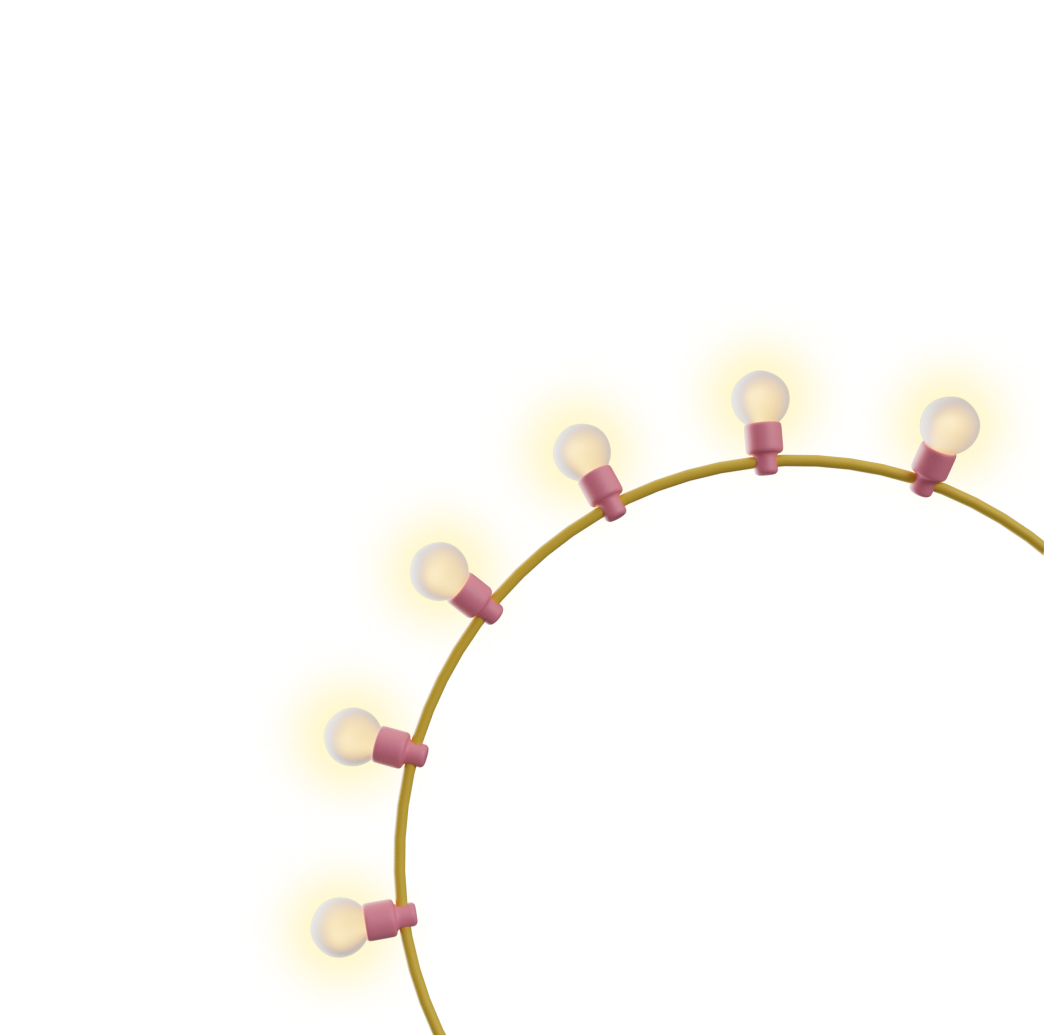
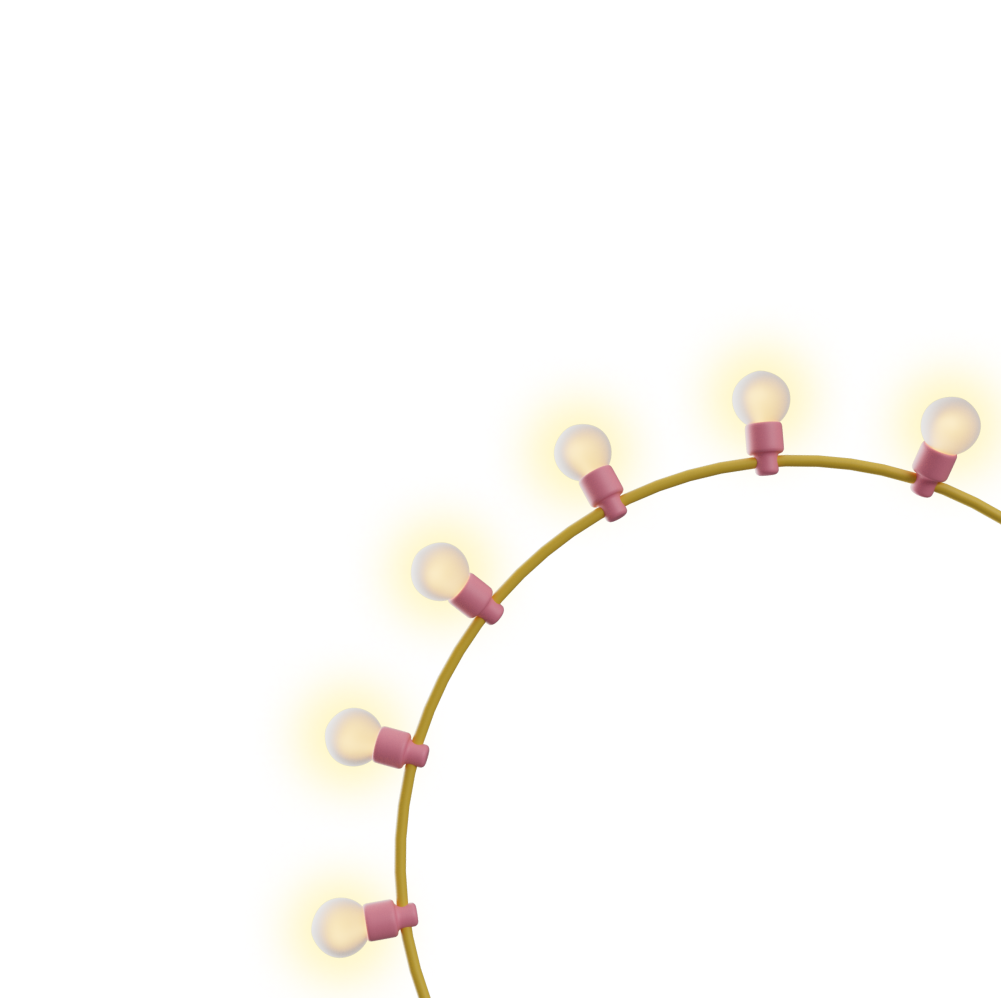
Revert "поправил/кропнул/перезалил гирлянды вокруг кнопки"
This reverts commit 97a94f3a64b5181b10b98057c7296a6a73bfae32.

Changed region(s): [[0.2787, 0.3417, 1.0, 1.0]]

diff --git a/scss/style.scss b/scss/style.scss
@@ -933,7 +933,7 @@ h1 {
     height: calc(729/1117*100dvh);
     border-radius: 50%;
     border: 1px solid #b4afff;
-    background: #9b94ff;    
+    background: #9b94ff;
     z-index: 2;
     cursor: pointer;
 }
@@ -986,7 +986,6 @@ h1 {
     border-radius: 50%;
     border: 1px solid #b4afff;
     background: #9b94ff;
-    box-shadow: 0px 0px 184px 0px #b43cff23;
     z-index: 2;
     cursor: pointer;
     pointer-events: auto;
@@ -1098,12 +1097,12 @@ h1 {
 }
 
 .gerland {
-    bottom: calc(-40/1117*100dvh);
-    right: calc(-47/1117*100dvh);
+    bottom: calc(0/1117*100dvh);
+    right: calc(0/1117*100dvh);
     position: fixed;
     display: block;
-    width: calc(1044/1117*100dvh);
-    height: calc(10035/1117*100dvh);
+    width: calc(1007/1117*100dvh);
+    height: calc(1007/1117*100dvh);
     background: url("../img/light_2_off.png") bottom right no-repeat;
     background-size: contain;
     z-index: 3;

diff --git a/css/style.css b/css/style.css
@@ -1134,8 +1134,6 @@ h1 {
   border-radius: 50%;
   border: 1px solid #b4afff;
   background: #9b94ff;
-  -webkit-box-shadow: 0px 0px 184px 0px rgba(180, 60, 255, 0.137254902);
-          box-shadow: 0px 0px 184px 0px rgba(180, 60, 255, 0.137254902);
   z-index: 2;
   cursor: pointer;
   pointer-events: auto;
@@ -1247,12 +1245,12 @@ h1 {
 }
 
 .gerland {
-  bottom: -3.5810205909dvh;
-  right: -4.2076991943dvh;
+  bottom: 0dvh;
+  right: 0dvh;
   position: fixed;
   display: block;
-  width: 93.4646374217dvh;
-  height: 898.3885407341dvh;
+  width: 90.1521933751dvh;
+  height: 90.1521933751dvh;
   background: url("../img/light_2_off.png") bottom right no-repeat;
   background-size: contain;
   z-index: 3;

diff --git a/scss/dist/style.css b/scss/dist/style.css
@@ -970,7 +970,6 @@ h1 {
   border-radius: 50%;
   border: 1px solid #b4afff;
   background: #9b94ff;
-  box-shadow: 0px 0px 184px 0px #b43cff23;
   z-index: 2;
   cursor: pointer;
   pointer-events: auto;
@@ -1076,12 +1075,12 @@ h1 {
 }
 
 .gerland {
-  bottom: calc(-40/1117*100dvh);
-  right: calc(-47/1117*100dvh);
+  bottom: calc(0/1117*100dvh);
+  right: calc(0/1117*100dvh);
   position: fixed;
   display: block;
-  width: calc(1044/1117*100dvh);
-  height: calc(10035/1117*100dvh);
+  width: calc(1007/1117*100dvh);
+  height: calc(1007/1117*100dvh);
   background: url("../img/light_2_off.png") bottom right no-repeat;
   background-size: contain;
   z-index: 3;
